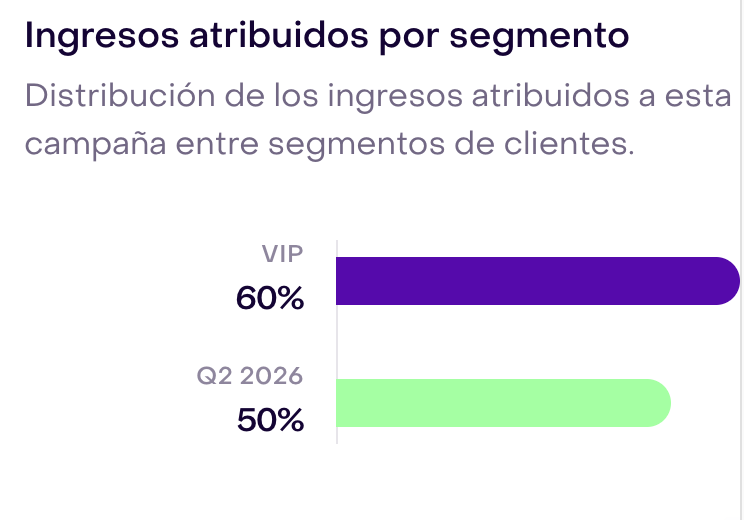
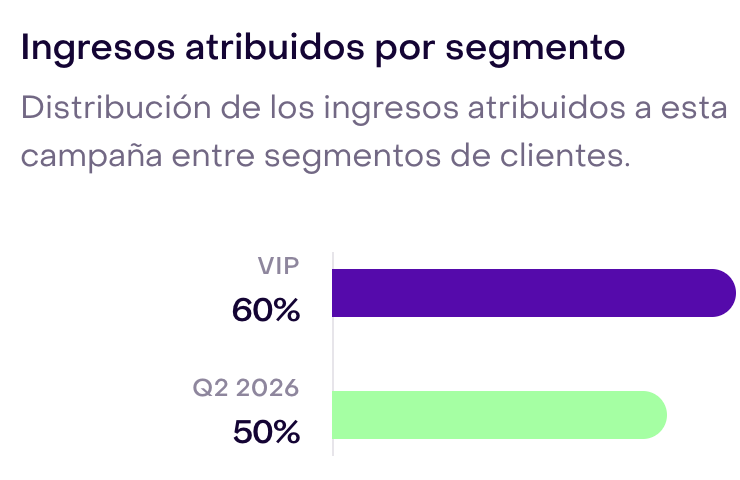
Fix campaign segment screenshot edges in both languages

diff --git a/docs/editorial-work/campaign-reporting.md b/docs/editorial-work/campaign-reporting.md
@@ -116,3 +116,13 @@ The two affected desktop figure frames in each translated article now allow up t
 The locally verified content is commit `c0ad1e7317b3df5b2919083d471c169a0d4e0856`, recorded in `progress.csv`; the Help branch is `codex/campaign-reporting-visual-polish`. [Help PR 127](https://github.com/hellotext/help/pull/127) is open against `main`, with GitHub Build, Aikido Security, Netlify deploy preview, and header checks passed. The [Spanish preview](https://deploy-preview-127--legendary-lollipop-e2d131.netlify.app/es/reportes-de-campa%C3%B1a) and [English preview](https://deploy-preview-127--legendary-lollipop-e2d131.netlify.app/campaign-reporting) each returned HTTP 200 and seven localized figures. All eight revised preview PNGs returned HTTP 200 with SHA-256 matching the repository assets.
 
 Rails [PR 6016](https://github.com/hellotext/hellotext/pull/6016) has final head `ef433aeaf47e743e183d6ef0adea03827d270209`. Aikido and all Rails checks except one test shard passed. The failed `test (2)` shard contained an unrelated order-dependent Mercado Libre/Compose example; the same job is being rerun as CI run `36279948287`, attempt 2, job `108513948371`. Do not bypass this check or merge either PR until the rerun succeeds. After Rails merges, verify its normal deployment, then merge Help PR 127 with a merge commit and verify the normal Netlify production deployment plus both public pages and the eight revised PNG hashes. Neither PR is merged as of this checkpoint.
+
+## Segment chart right-edge correction — 2026-09-27 UTC
+
+The user found a thin vertical artifact on the right of the segment chart screenshot. The same edge appeared in the existing Spanish and English desktop and mobile assets. The preceding translated article bodies are preserved byte for byte in `originals/campaign-reporting/pre-segment-edge-correction/`; the four preceding originals, provenance records, and published assets are preserved in `captures/campaign-reporting/pre-segment-edge-correction/`.
+
+Plan: recapture the **Ingresos atribuidos por segmento / Attributed revenue by segment** block from the same isolated synthetic report, keeping both bars and labels complete while leaving the right-edge artifact and pointer out. Use native 2× Display P3 PNGs in both languages. Provide a second responsive crop at the 599px Help breakpoint so the source remains at least 2× as wide as its largest mobile rendering. Update only this figure's dimensions and responsive sources, verify both complete translated articles at desktop, phone and the 599px breakpoint, then add the correction to the existing Help PR 127. Keep Rails PR 6016 as a publication dependency.
+
+Six direct ScreenCaptureKit crops from exact Chrome window `26501` were visually inspected before insertion: desktop `1580×460` pixels at global rectangle `(28,570,790,230)` with an `800×800` browser viewport; phone `740×480` at `(28,580,370,240)` with a `390×800` viewport; and wide mobile `1180×490` at `(28,620,590,245)` with a `599×900` viewport. The localized captures use the guarded isolated Rails database `hellotext_editorial_capture_20260926`, contain only synthetic segments, retain the complete purple and green bars, and show no right line or cursor. The six originals and byte-identical static assets have embedded Display P3 profiles.
+
+The production Jekyll build and security-header check passed. The segment figure in the complete Spanish and English articles was inspected in the local browser at `1280×900`, `375×812`, and `599×900`; all responsive sources loaded, both bars and labels remain complete, and there is no line, image link, open control, or horizontal overflow. The `440px` phone breakpoint renders the `740px` source at `366px` (2.02×); the `599px` breakpoint renders the `1180px` source at `491px` (2.40×); the desktop source can display up to the figure's `740px` cap (2.14×). All six original PNGs, static assets, built copies, and local HTTP 200 responses match by SHA-256. The image is locally verified; PR, merge, and public checks remain pending.

diff --git a/docs/editorial-work/originals/campaign-reporting/pre-segment-edge-correction/es/campaign-reporting.md b/docs/editorial-work/originals/campaign-reporting/pre-segment-edge-correction/es/campaign-reporting.md
@@ -137,9 +137,8 @@ Una venta puede ocurrir días después de la entrega y aparecer si su fecha de c
   <div class="ht-editorial-visual__stage">
     <div class="ht-editorial-visual__image-frame" style="max-width: 740px; margin: 0 auto;">
       <picture>
-        <source media="(max-width: 440px)" srcset="/images/analytics-reporting-attribution/campaign-reporting/revenue-by-segment-es-mobile.png" width="740" height="480" />
-        <source media="(max-width: 600px)" srcset="/images/analytics-reporting-attribution/campaign-reporting/revenue-by-segment-es-mobile-wide.png" width="1180" height="490" />
-        <img class="ht-editorial-visual__image" src="/images/analytics-reporting-attribution/campaign-reporting/revenue-by-segment-es.png" width="1580" height="460" loading="lazy" decoding="async" alt="Desglose de ingresos atribuidos entre segmentos de demostración, cuyos porcentajes pueden superponerse." />
+        <source media="(max-width: 600px)" srcset="/images/analytics-reporting-attribution/campaign-reporting/revenue-by-segment-es-mobile.png" width="744" height="520" />
+        <img class="ht-editorial-visual__image" src="/images/analytics-reporting-attribution/campaign-reporting/revenue-by-segment-es.png" width="1572" height="520" loading="lazy" decoding="async" alt="Desglose de ingresos atribuidos entre segmentos de demostración, cuyos porcentajes pueden superponerse." />
       </picture>
     </div>
   </div>

diff --git a/docs/editorial-work/originals/campaign-reporting/pre-segment-edge-correction/en/campaign-reporting.md b/docs/editorial-work/originals/campaign-reporting/pre-segment-edge-correction/en/campaign-reporting.md
@@ -137,9 +137,8 @@ A sale can happen days after delivery and appear if its purchase date falls with
   <div class="ht-editorial-visual__stage">
     <div class="ht-editorial-visual__image-frame" style="max-width: 740px; margin: 0 auto;">
       <picture>
-        <source media="(max-width: 440px)" srcset="/images/analytics-reporting-attribution/campaign-reporting/revenue-by-segment-en-mobile.png" width="740" height="480" />
-        <source media="(max-width: 600px)" srcset="/images/analytics-reporting-attribution/campaign-reporting/revenue-by-segment-en-mobile-wide.png" width="1180" height="490" />
-        <img class="ht-editorial-visual__image" src="/images/analytics-reporting-attribution/campaign-reporting/revenue-by-segment-en.png" width="1580" height="460" loading="lazy" decoding="async" alt="Breakdown of attributed revenue across demonstration segments whose percentages may overlap." />
+        <source media="(max-width: 600px)" srcset="/images/analytics-reporting-attribution/campaign-reporting/revenue-by-segment-en-mobile.png" width="740" height="560" />
+        <img class="ht-editorial-visual__image" src="/images/analytics-reporting-attribution/campaign-reporting/revenue-by-segment-en.png" width="1572" height="520" loading="lazy" decoding="async" alt="Breakdown of attributed revenue across demonstration segments whose percentages may overlap." />
       </picture>
     </div>
   </div>
